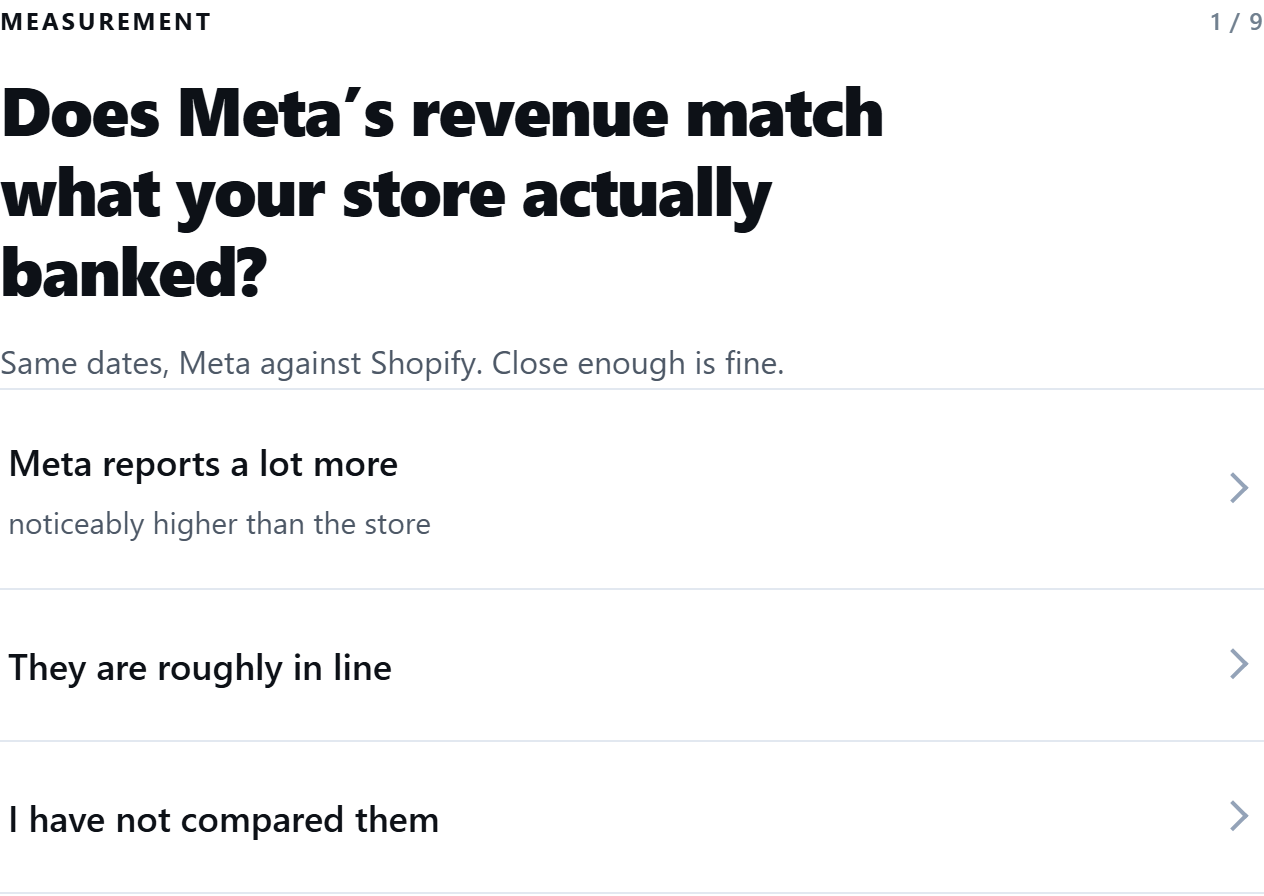
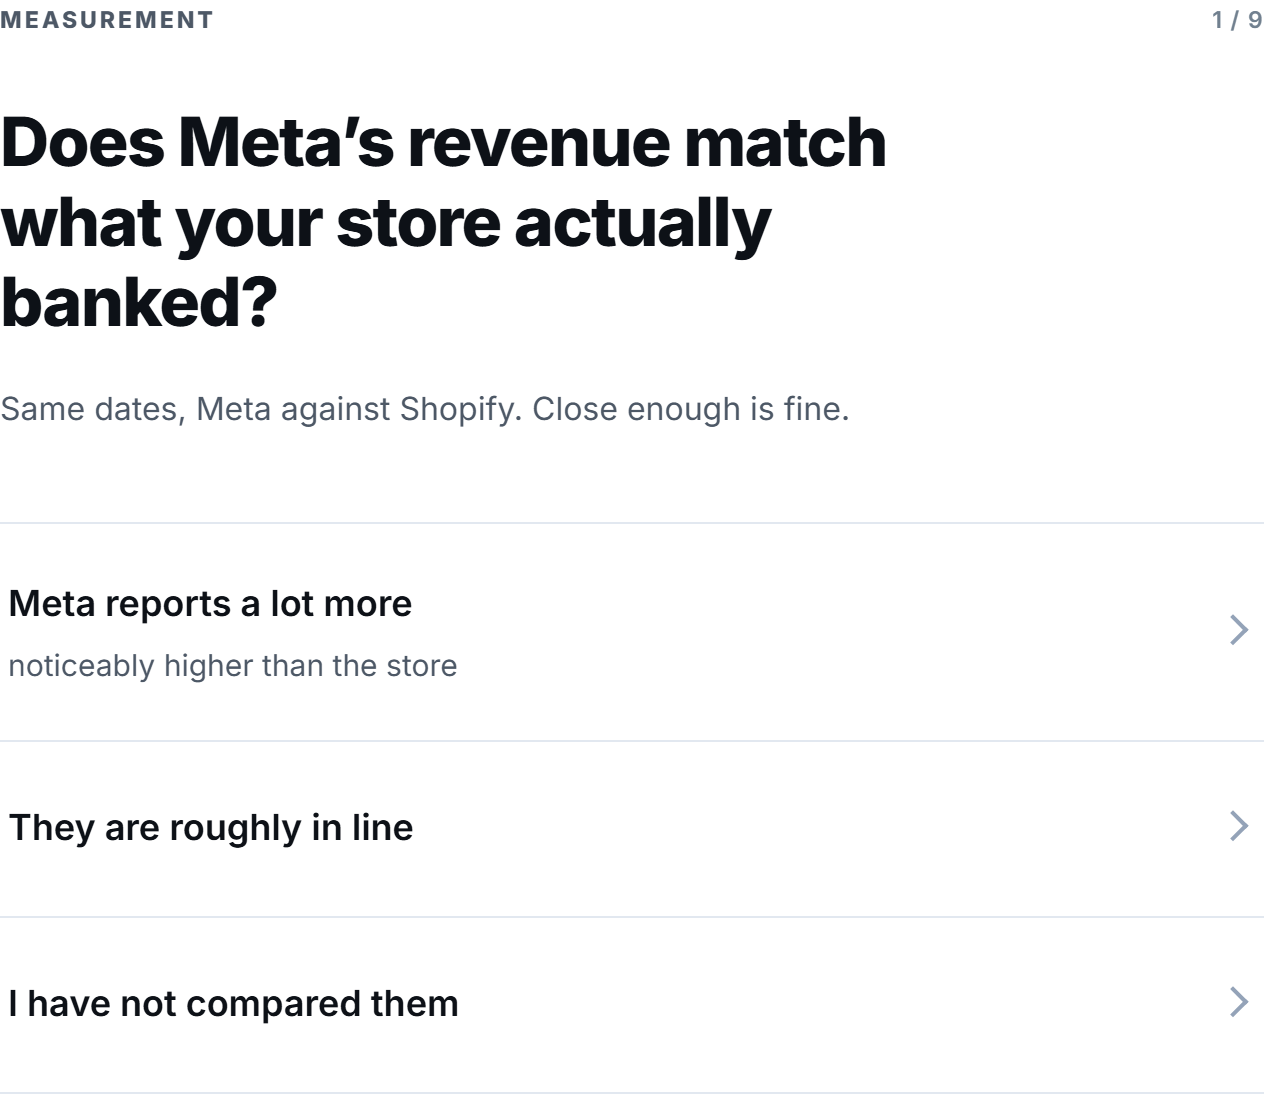
Scale question and options up to match the category
Measured against five comparable quiz forms: their headings run 46-68px
(acquisition 53, crazyegg 68, klaviyo 64, typeform 56, hubspot 46) while
mine was 34. Option text was 18px against acquisition's 24.

Question 34 -> 46px, options 18 -> 21px, sub-line 15 -> 16px. Tap targets
left alone - at 88px they were already the most generous in the set.

diff --git a/scale/index.html b/scale/index.html
@@ -38,7 +38,7 @@
         .step { font-size: 11.5px; letter-spacing: .13em; text-transform: uppercase; color: var(--mute);
                 font-weight: 800; margin-bottom: 32px; display: flex; justify-content: space-between; align-items: baseline; }
         .step em { font-style: normal; color: var(--faint); letter-spacing: .06em; font-weight: 600; }
-        .q { font-size: clamp(23px, 3.4vw, 34px); font-weight: 800; line-height: 1.18; letter-spacing: -.025em; margin: 0 0 20px; max-width: 22ch; }
+        .q { font-size: clamp(27px, 4.2vw, 46px); font-weight: 800; line-height: 1.18; letter-spacing: -.025em; margin: 0 0 20px; max-width: 22ch; }
         .card .why { color: var(--mute); font-size: 16px; margin: 0 0 44px; max-width: 52ch; line-height: 1.6; }
         .why b { color: var(--ink); }
         .opts { display: flex; flex-direction: column; gap: 0; margin: 0; border-top: 1px solid var(--line); }
@@ -47,7 +47,7 @@
             border: 0; border-bottom: 1px solid var(--line); border-radius: 0;
             padding: 26px 52px 26px 4px; min-height: 88px; width: 100%;
             display: flex; flex-direction: column; justify-content: center;
-            font: inherit; font-size: 18px; font-weight: 600; cursor: pointer;
+            font: inherit; font-size: 21px; font-weight: 600; cursor: pointer;
             transition: background .12s, padding-left .12s;
         }
         .opts button:after {
@@ -59,7 +59,7 @@
         .opts button:hover:after { right: 6px; }
         .opts button:focus-visible { background: var(--panel); outline: 2px solid var(--ink); outline-offset: -2px; }
         .opts button:active { background: var(--raise-2); }
-        .opts button small { display: block; font-weight: 400; font-size: 15px; color: var(--mute); margin-top: 5px; line-height: 1.45; }
+        .opts button small { display: block; font-weight: 400; font-size: 16px; color: var(--mute); margin-top: 5px; line-height: 1.45; }
 
         .bar { height: 3px; background: var(--line); border-radius: 0; margin: 0 0 34px; overflow: hidden; }
         .bar span { display: block; height: 100%; background: var(--accent-text); border-radius: 3px;
